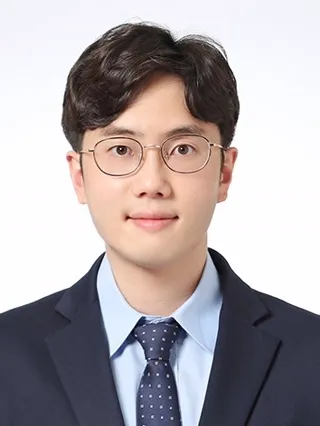
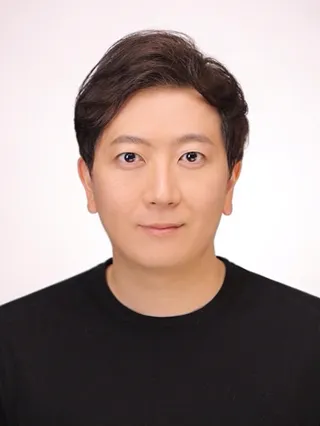
데이터사이언스학부 사진 완성 및 학과 링크 정정
data.pusan.ac.kr(데이터사이언스학부 공식 사이트) 확인 - 대학원(ds)에 없던
6명이 여기 있어 학부 11명 전원 사진 확보. 김민우는 통계학과 사이트 대신
학부 사이트 사진으로 교체.

- 교수 사진 54 -> 59/60 (미확보: 유철희, AX융합학부)
- AI컴퓨터공학부(인터랙티브컴퓨팅전공) 링크를 cse.pusan.ac.kr로 변경
  기존 inter.pusan.ac.kr는 디자인테크놀로지전공 사이트로, 서브도메인
  이름만 보고 추측해 잘못 연결했던 것을 정정
- 데이터사이언스학부 링크 추가 (교수진 헤딩 + 조직도 unit-d 노드)
- 캐시버스터 v=20260824-5

diff --git a/faculty-data.js b/faculty-data.js
@@ -1,1 +1,1 @@
-window.FACULTY_DATA=[{"college":"정보의생명공학대학","department":"정보컴퓨터공학부","major":"","rank":"교수","name":"이기준","specialty":"데이터베이스 및 공간정보공학","career":"•금성통신연구소(84.8-86.8)\n•부산대학교 정보컴퓨터공학부 교수(93.8~현재)\n•데이터베이스 및 공간 데이터 처리 시스템 고도화 및 융합 연구","aiCareer":"","image":"./assets/faculty/ef902ada.webp","isRepresentative":false},{"college":"정보의생명공학대학","department":"정보컴퓨터공학부","major":"","rank":"교수","name":"염근혁","specialty":"소프트웨어공학","career":"•금성반도체 연구원(85.1-88.2)\n•금성사 주임연구원(88.3-90.6)\n•삼성SDS 책임연구원(95.9.96.8)\n•부산대학교 정보컴퓨터공학부 교수(96.8~현재)\n•블록체인 트랜잭션 추적성 개선 및 머신러닝 기반 마이크로서비스 아키텍처 결합 관리 기술 전문가로 Journal of King Saud University(IF 6.1, Q1) 등 SCIE 저널 우수 성과 보유","aiCareer":"","image":"./assets/faculty/afa11a9e.webp","isRepresentative":false},{"college":"정보의생명공학대학","department":"정보컴퓨터공학부","major":"","rank":"교수","name":"이도훈","specialty":"Visual Computing","career":"•밀양대학교 컴퓨터공학과 교수(95.3-06.2)\n•부산대학교 정보컴퓨터공학부 교수(06.3~현재)\n•시각 추론(Visual Reasoning) 기반 저조도 이미지 개선 및 딥러닝 데이터 증강·이상 탐지 모델링 등 Visual Computing AI 전문가","aiCareer":"","image":"./assets/faculty/40045646.webp","isRepresentative":false},{"college":"정보의생명공학대학","department":"정보컴퓨터공학부","major":"","rank":"교수","name":"김정구","specialty":"통신이론, 부호 및 정보이론","career":"•밀양대학교 정보통신공학부 교수(95.3-06.2)\n•부산대학교 정보컴퓨터공학부 교수(06.3~현재)\n•통신이론 및 부호·정보이론 시스템 지능화 최적화 전문가","aiCareer":"","image":"./assets/faculty/e77e50aa.webp","isRepresentative":false},{"college":"정보의생명공학대학","department":"정보컴퓨터공학부","major":"","rank":"교수","name":"백윤주","specialty":"컴퓨터시스템","career":"•(주)핸디소프트(97.3-98.2)\n•NHN㈜ 연구소장(99.6-02.2)\n•한경대학교 컴퓨터공학과 교수(98.3-99.2)\n•숙명여자대학교 정보과학부 교수(99.3-01.2)\n•한국과학기술원 전산학과 초빙교수(02.3-03.8)\n•부산대학교 정보컴퓨터공학부 교수(03.10~현재)\n•온디바이스 AI 및 대형 언어 모델(LLM) 파인튜닝 전문가로 IEEE Access, Sensors 등 SCIE 저널 다수 게재 성과","aiCareer":"","image":"./assets/faculty/74e412af.webp","isRepresentative":false},{"college":"정보의생명공학대학","department":"정보컴퓨터공학부","major":"","rank":"교수","name":"우균","specialty":"프로그래밍언어 및 컴파일러","career":"•KAIST 인공지능연구센터(CAIR) 연구원(93.03~00.02)\n•부산대학교 과학영재교육원 AI창의융합반 지도교수(26.03~현재)\n•동아대학교 컴퓨터공학과 교수(00.3-04.2)\n•부산대학교 정보컴퓨터공학부 교수(04.3~현재)\n•Jupyter 활용 대화형 인공지능 교육 시스템 설계 전문가","aiCareer":"","image":"./assets/faculty/cb555f16.webp","isRepresentative":false},{"college":"정보의생명공학대학","department":"정보컴퓨터공학부","major":"","rank":"교수","name":"김종덕","specialty":"컴퓨터 네트워크와 통신","career":"•텔코웨어 차장(03.1-04.2)\n•부산대학교 정보컴퓨터공학부 교수(04.3~현재)\n•무선 센서 네트워크 데이터 통신 최적화 AI 전문가로 IEEE Sensors Journal(Q1), IEEE Access 등 최우수 SCIE 논문 게재 성과","aiCareer":"","image":"./assets/faculty/c0d0f2c5.webp","isRepresentative":false},{"college":"정보의생명공학대학","department":"정보컴퓨터공학부","major":"","rank":"교수","name":"채흥석","specialty":"소프트웨어공학","career":"•동양시스템즈 선임연구원(00.9~03.4)\n•소프트티엔큐 대표이사(14.9~21.9)\n•부산대학교 정보컴퓨터공학부 교수(04.3~현재)\n•AI 소프트웨어 공학 전문가로 심층신경망(DNN) 테스트 최적화 관련 Neural Computing and Applications 등 국제 저널 게재","aiCareer":"","image":"./assets/faculty/5d9b633e.webp","isRepresentative":false},{"college":"정보의생명공학대학","department":"정보컴퓨터공학부","major":"","rank":"교수","name":"탁성우","specialty":"컴퓨터네트워크","career":"•ETRI 연구원(97.1-99.12)\n•부산대학교 정보컴퓨터공학부 교수(04.3~현재)\n•지능형 통신 네트워크 프로토콜 및 컴퓨터 네트워크 시스템 알고리즘 연구 전문가","aiCareer":"","image":"./assets/faculty/13b33174.webp","isRepresentative":false},{"college":"정보의생명공학대학","department":"정보컴퓨터공학부","major":"","rank":"교수","name":"유영환","specialty":"네트워크 및 사이버물리시스템","career":"•University of Cincinnati Research Associate(04.5-06.12)\n•부산대학교 정보컴퓨터공학부 교수(07.3~현재)\n•하이브리드 딥러닝 기반 IoT 보안 전문가로 IEEE Internet of Things Journal(IF 8.9, 상위 10%) 최우수 저널 성과 보유","aiCareer":"","image":"./assets/faculty/3c1596e1.webp","isRepresentative":true},{"college":"정보의생명공학대학","department":"정보컴퓨터공학부","major":"","rank":"교수","name":"김호원","specialty":"정보보호 및 physical  AI","career":"•한국전자통신연구원 선임연구원(99.2-08.2)\n•부산대학교 정보컴퓨터공학부 교수(08.3~현재)\n•사물지능 정보보안 전문가로 딥 신경망(DNN) 기반 통신 침해 이상 탐지 관련 SCIE 저널 게재 참여","aiCareer":"","image":"./assets/faculty/5cf47b82.webp","isRepresentative":false},{"college":"정보의생명공학대학","department":"정보컴퓨터공학부","major":"","rank":"교수","name":"최윤호","specialty":"컴퓨터 및 네트워크 보안","career":"•삼성전자 책임연구원(10.3-12.2)\n•경기대학교 교수(12.3-14.8)\n•부산대학교 정보컴퓨터공학부 교수(14.9~현재)\n•생성형 AI(GAN/Diffusion) 합성 데이터 증강 전문가로 ACM SAC 최우수 국제학회 및 IEEE Access 등 프라이버시 AI 분야 SCIE 다수 성과","aiCareer":"","image":"./assets/faculty/0592f7f1.webp","isRepresentative":false},{"college":"정보의생명공학대학","department":"정보컴퓨터공학부","major":"","rank":"교수","name":"송길태","specialty":"머신러닝, 생성AI, 바이오인포매틱스","career":"•부산대학교 정보컴퓨터공학부 교수(16.9~현재)\n•머신러닝 및 바이오 AI 전문가로 Briefings in Bioinformatics(IF 7.7), Bioinformatics 등 바이오인포매틱스 분야 JCR 상위 10% 최상위 SCIE 저널 성과 보유","aiCareer":"","image":"./assets/faculty/38f416bc.webp","isRepresentative":false},{"college":"정보의생명공학대학","department":"정보컴퓨터공학부","major":"","rank":"부교수","name":"안성용","specialty":"운영체제 및 스토리지 시스템","career":"•삼성전자 책임연구원(12.9-17.8)\n•부산대학교 정보컴퓨터공학부 교수(17.9~현재)\n•지능형 스토리지 최적화 전문가로 차세대 ZNS SSD 환경 운영체제 구조 관련 연구 학술지 게재","aiCareer":"","image":"./assets/faculty/af8764af.webp","isRepresentative":false},{"college":"정보의생명공학대학","department":"정보컴퓨터공학부","major":"","rank":"부교수","name":"감진규","specialty":"컴퓨터비전, 의료영상처리, 머신러닝 ","career":"•삼성전자 선임연구원(03.1-07.3)\n•부산대학교 정보컴퓨터공학부 교수(17.9~현재)\n•뇌질환 의료 영상 AI 전문가로 NeuroImage(IF 4.5, 상위 10%), Scientific Reports(Q1) 등 딥러닝 조기 진단 분야 최상급 저널 성과","aiCareer":"","image":"./assets/faculty/5182f686.webp","isRepresentative":false},{"college":"정보의생명공학대학","department":"정보컴퓨터공학부","major":"","rank":"교수","name":"황원주","specialty":"사물인터넷(IoT) 차세대 이동통신","career":"•인제대학교 교수(02.9~19.12)\n•부산대학교 정보컴퓨터공학부 교수(20.1~현재)\n•6G 네트워크 및 분산 기계학습 전문가로 IEEE Communications Surveys & Tutorials(IF 46.7, 상위 10%), IEEE TVT 등 통신 AI 분야 세계 최고 수준의 압도적 성과 다수","aiCareer":"","image":"./assets/faculty/adb60e38.webp","isRepresentative":false},{"college":"정보의생명공학대학","department":"정보컴퓨터공학부","major":"","rank":"부교수","name":"권동현","specialty":"소프트웨어 보안, 임베디드 시스템 보안","career":"•한국전자통신연구원 연구원(19.3-20.2)\n•부산대학교 정보컴퓨터공학부 교수(20.3~현재)\n•임베디드 AI 보안 전문가로 IEEE T-ASE(Q1) 최상위 저널 및 ACSAC, DAC 등 최우수 정보보안 국제학회 탁월한 성과","aiCareer":"","image":"./assets/faculty/1c93a9a9.webp","isRepresentative":false},{"college":"정보의생명공학대학","department":"정보컴퓨터공학부","major":"","rank":"부교수","name":"이명호","specialty":"가상증강현실, 디지털휴먼, 디지털트윈,메타버스, HCI","career":"•부산대학교 정보컴퓨터공학부 교수(20.9~현재)\n•메타버스 AR/VR 지능 전문가로 IEEE Transactions on Visualization and Computer Graphics(IF 6.5, 상위 10%) 게재 및 ISMAR 우수국제학술대회 발표 성과","aiCareer":"","image":"./assets/faculty/d49ff39e.webp","isRepresentative":false},{"college":"정보의생명공학대학","department":"정보컴퓨터공학부","major":"","rank":"부교수","name":"박진선","specialty":"컴퓨터비전, 자율주행, 인공지능","career":"•부산대학교 정보컴퓨터공학부 교수(21.9~현재)\n•3차원 시각 지능 분야 전문가로 AAAI, ACM MM 등 AI 최우수 국제학회 다수 성과 및 IEEE RA-L 로봇 비전 게재\n•윤인구신진연구자상 수상","aiCareer":"","image":"./assets/faculty/91d7e62a.webp","isRepresentative":false},{"college":"정보의생명공학대학","department":"정보컴퓨터공학부","major":"","rank":"부교수","name":"김원석","specialty":"피지컬AI, 디지털트윈, AI최적화","career":"•주)플론베이 대표이사: 16.03-19.02\n•부산대학교 정보컴퓨터공학부 교수(22.3~현재)\n•클라우드/디지털 트윈 AI 전문가로 Energy(IF 9.4, 상위 10%), Renewable Energy(Q1) 등 에너지 최적화 분야 최우수 SCIE 성과 다수","aiCareer":"","image":"./assets/faculty/468d3cda.webp","isRepresentative":false},{"college":"정보의생명공학대학","department":"정보컴퓨터공학부","major":"","rank":"부교수","name":"김태운","specialty":"무선네트워크, 지능형IoT, 모빌리티","career":"•한국정보통신기술협회/TTA 연구원(10.3~13.4)\n•한림대학교 교수(18.9~22.8)\n•부산대학교 정보컴퓨터공학부 교수(22.9~현재)\n•모빌리티 지능형 IoT 전문가로 IEEE Access, Sensors 등 트랜스포머 기반 궤적 예측 및 강화학습 스케줄링 관련 다수 SCIE 저널 게재","aiCareer":"","image":"./assets/faculty/f9eaeb5b.webp","isRepresentative":false},{"college":"정보의생명공학대학","department":"정보컴퓨터공학부","major":"","rank":"조교수","name":"조준수","specialty":"데이터 마이닝, 추천시스템, 자연어 처리, 멀티모달 ","career":"•부산대학교 정보컴퓨터공학부 교수(23.9~현재)\n•자연어 처리 및 데이터 마이닝 전문가로 대형 언어 모델(LLM)의 자기 검증 및 RAG 기반 환각 완화 관련 우수 학술지 게재 성과","aiCareer":"","image":"./assets/faculty/90d3f4c1.webp","isRepresentative":false},{"college":"정보의생명공학대학","department":"정보컴퓨터공학부","major":"","rank":"조교수","name":"전상률","specialty":"컴퓨터비전, 기계학습","career":"•부산대학교 정보컴퓨터공학부 교수(23.9~현재)\n•비전 기계학습 전문가로 오픈 보캐뷸러리(Open-Vocabulary) 프레임워크 및 생성형 AI 기반 이미지 변환 기술 최적화로 IEEE Access 게재 성과","aiCareer":"","image":"./assets/faculty/2e704305.webp","isRepresentative":false},{"college":"정보의생명공학대학","department":"정보컴퓨터공학부","major":"","rank":"조교수","name":"손준영","specialty":"AX융합사이버보안","career":"• 국가보안기술연구소 연구원(09.08.18-12.12.31)\n• 한국원자력안전기술원 선임연구원(13.02.15-17.01.31)\n• 한국원자력연구원 선임연구원(17.02.01-23.10.05)\n•부산대학교 정보컴퓨터공학부 교수(24.3~현재)\n•사이버 융합 보안 전문가로 심층 강화학습 활용 자율주행(CAN) 이상 탐지 최적화 IEEE Access 게재 성과","aiCareer":"","image":"./assets/faculty/14b3eddc.webp","isRepresentative":false},{"college":"정보의생명공학대학","department":"정보컴퓨터공학부","major":"","rank":"조교수","name":"박영진","specialty":"컴퓨터그래픽스, 기하모델링, 3D알고리즘","career":"•부산대학교 정보컴퓨터공학부 교수(25.3~현재)\n•3D 그래픽스 전문가로 데이터 알고리즘을 응용한 포뮬러 레이싱 궤적 곡률 기반 기하 난이도 분석으로 Applied Sciences 게재 성과","aiCareer":"","image":"./assets/faculty/f0550dec.webp","isRepresentative":false},{"college":"정보의생명공학대학","department":"정보컴퓨터공학부","major":"","rank":"조교수","name":"최동희","specialty":"자연어처리, 데이터마이닝, 바이오 AI, 금융 AI, Food AI","career":"• Opinion8 CIO(14.10.21~16.04.26)\n• Konolabs 데이터 사이언티스트(17.01.01~19.04.05)\n• LYZE 리서치 디렉터(18.06.20~19.04.15)\n• Sony Research Internship Trainee(22.12.19~23.06.30)\n•부산대학교 정보컴퓨터공학부 교수(25.9~현재)\n•실무 데이터 바탕 자연어 처리, 바이오·금융·Food AI 상용화 선도","aiCareer":"","image":"./assets/faculty/23aa91e0.webp","isRepresentative":false},{"college":"정보의생명공학대학","department":"정보컴퓨터공학부","major":"","rank":"조교수","name":"권용인","specialty":"인공지능 시스템, 임베디드 시스템, 인공지능 반도체, 온디바이스 AI","career":"•삼성전자 책임 (15.3~19.7)\n•한국전자통신연구원 선임연구원 (19.7~26.2)\n•부산대학교 정보컴퓨터공학부 교수(26.3~현재)\n•인공지능 시스템 및 임베디드 장비에 특화된 지능형 반도체 아키텍처 최적화, 경량화된 온디바이스 AI 알고리즘 설계 연구 전문가","aiCareer":"전임","image":"./assets/faculty/b17513e7.webp","isRepresentative":false},{"college":"AI대학","department":"AI컴퓨터공학부 (인터랙티브컴퓨팅전공)","major":"","rank":"교수","name":"김철기","specialty":"인공지능","career":"•밀양대학교 컴퓨터공학부 교수(03.3~06.2)\n•부산대학교 디자인학과 디자인테크놀로지전공 교수(06.3~26.2)\n•부산대학교 정보컴퓨터공학부 교수(26.3~현재)\n•인간중심AI와 인터랙션전문가로서 Springer 및 Elsvier, KCI, SCI논문실적 다수","aiCareer":"전임","image":"./assets/faculty/3a3ade27.webp","isRepresentative":true},{"college":"AI대학","department":"AI컴퓨터공학부 (인터랙티브컴퓨팅전공)","major":"","rank":"교수","name":"김태완","specialty":"운영체제","career":"•부산대학교 디자인학과 디자인테크놀로지전공 교수(06.3~26.2)\n•(재)부산디자인진흥원 선임직 이사 역임 (2019~2021)\n•부산대학교 정보컴퓨터공학부 교수(26.3~현재)","aiCareer":"전임","image":"./assets/faculty/d7495eeb.webp","isRepresentative":false},{"college":"AI대학","department":"AI컴퓨터공학부 (인터랙티브컴퓨팅전공)","major":"","rank":"교수","name":"이화세","specialty":"인터랙션","career":"•밀양대학교 컴퓨터공학과 교수 (91.3~06.2)\n•부산대학교 디자인학과 디자인테크놀로지전공 교수(06.3~26.2)\n•부산대학교 정보컴퓨터공학부 교수(26.3~현재)\n•웹 디자인 및 웹 UX 연구","aiCareer":"전임","image":"./assets/faculty/d2f17d86.webp","isRepresentative":false},{"college":"AI대학","department":"산업공학부","major":"","rank":"교수","name":"박찬석","specialty":"응용통계","career":"Editorial boards of\nthe Journal of Probability and Statistics and \ntheInternationalJournalof\nQualityEngineeringandTechnology\n주저자논문70여건\n응용통계,Robustness,StatisticalSimulation,Bayesian,신뢰성,데이터분석분야\n특허: 2건","aiCareer":"전임","image":"./assets/faculty/f92fada9.webp","isRepresentative":false},{"college":"AI대학","department":"산업공학부","major":"","rank":"교수","name":"배혜림","specialty":"산업 AI","career":"주저자 논문 114여건\n기술이전21여건(항만,해양,제조,빅데이터,딥러닝,AI관련도메인)약3.9억","aiCareer":"전임","image":"./assets/faculty/7f26fe9a.webp","isRepresentative":false},{"college":"AI대학","department":"산업공학부","major":"","rank":"교수","name":"이규민","specialty":"수리최적화 및 계산최적화","career":"재난비상소개 Agent-Based Simulation - 연구재단 전략연구, 중견연구\n가상자산로보어드바이저–한국블록체인학회","aiCareer":"전임","image":"./assets/faculty/ae28b21f.webp","isRepresentative":false},{"college":"AI대학","department":"산업공학부","major":"","rank":"교수","name":"진상은","specialty":"인간-시스템 상호작용","career":"산업안전보건공단 산재예방 AI 혁신위 위원\n산업안전AIR&D4건진행중\n부산대학교산업인공지능연구소소장\n부산대학교 AX정보화혁신본부 부본부장\n논문9건,산학협력2건,정부R&D3건,기술이전:1건\nHuman-RobotCollaboration,HumanComputerInteraction,산업안전LMM(위험성평가등)","aiCareer":"전임","image":"./assets/faculty/c8ae8bb1.webp","isRepresentative":false},{"college":"AI대학","department":"산업공학부","major":"","rank":"교수","name":"홍순도","specialty":"생산/물류, 디지털트윈","career":"삼성디스플레이 스마트팩토리 2.5년 (2011.8~2014.2), \n하이닉스공장자동화3.3년(1996.8~1999.11)\n주저자논문11건\n디지털트윈,스마트팩토리,기계학습분야\n삼성디스플레이스마트공장디지털트윈산학협력3건,공동특허5건","aiCareer":"전임","image":"./assets/faculty/e1ee7415.webp","isRepresentative":false},{"college":"AI대학","department":"산업공학부","major":"","rank":"부교수","name":"김기훈","specialty":"산업 AI","career":"주저자 논문 12건, 특허 출원 5건 및 등록 2건, 산학협력 8건 등","aiCareer":"전임","image":"./assets/faculty/b3a96e35.webp","isRepresentative":false},{"college":"AI대학","department":"산업공학부","major":"","rank":"부교수","name":"한준희","specialty":"AI팩토리","career":"주저자 논문 5편\n제조AI,의사결정자동화분야","aiCareer":"전임","image":"./assets/faculty/141041ee.webp","isRepresentative":true},{"college":"AI대학","department":"산업공학부","major":"","rank":"조교수","name":"김도원","specialty":"확률모형, 확률기반 최적화","career":"메리츠화재 데이터사이언스 파트 근무, 선도연구센터 부센터장, AI 기반 최적화 논문 게재\n주저자논문9건\n방법론:최적화,stochasticprocess,확률\n도메인:에너지-기후,환경,해양항만","aiCareer":"전임","image":"./assets/faculty/badf38be.webp","isRepresentative":false},{"college":"AI대학","department":"산업공학부","major":"","rank":"조교수","name":"신혜림","specialty":"최적화","career":"AI 컴퓨팅 최적화 업무, 삼성전자 SAIT System Research Center\nAI프로그래밍및강화학습개론수업강의,부산대학교\n주저자논문2건\n최적화,M&S분야","aiCareer":"전임","image":"./assets/faculty/c61d1f7c.webp","isRepresentative":false},{"college":"AI대학","department":"산업공학부","major":"","rank":"조교수","name":"정재희","specialty":"최적화이론, 시스템최적화","career":"2020.01~2024.08 LGD AI/Big Data 최적화팀 책임\n주저자논문5건\n에너지시스템,SNS분야\n산학협력:1건\nLG에너지솔루션SCP시스템개발","aiCareer":"전임","image":"./assets/faculty/9e957d92.webp","isRepresentative":false},{"college":"AI대학","department":"데이터사이언스학부","major":"","rank":"교수","name":"류광열","specialty":"산업공학(생산공학)","career":"Physical AI, 스마트제조, HRC, 제조데이터분석","aiCareer":"전임","image":"./assets/faculty/405df69d.webp","isRepresentative":false},{"college":"AI대학","department":"데이터사이언스학부","major":"","rank":"교수","name":"지봉준","specialty":"산업공학","career":"삼성리서치 Staff Engineer, AI+X(제조,토목,환경,교육) 융합연구수행","aiCareer":"전임","image":"./assets/faculty/87878bb1.webp","isRepresentative":false},{"college":"AI대학","department":"데이터사이언스학부","major":"","rank":"교수","name":"강상우","specialty":"전기전자공학(역문제)","career":"국방과학연구소 인공지능자율기술센터 신임연구원, 국방AI, 과학적 데이터 AI 연구 수행","aiCareer":"전임","image":"./assets/faculty/5429c094.webp","isRepresentative":false},{"college":"AI대학","department":"데이터사이언스학부","major":"","rank":"교수","name":"권준호","specialty":"컴퓨터공학","career":"차세대융합기술연구원 선임연구원, BigComp 2026 general chair, KDD 2026 publication chair ","aiCareer":"전임","image":"./assets/faculty/45ce2bd2.webp","isRepresentative":false},{"college":"AI대학","department":"데이터사이언스학부","major":"","rank":"교수","name":"황윤태","specialty":"산업공학","career":"박사후연구원(University of Oxford), ICAIF'25 RFTS Worksohop Chair","aiCareer":"전임","image":"./assets/faculty/17efda2a.webp","isRepresentative":false},{"college":"AI대학","department":"데이터사이언스학부","major":"","rank":"부교수","name":"권선영","specialty":"전기정보공학","career":"네이버 AI연구원","aiCareer":"전임","image":"","isRepresentative":true},{"college":"AI대학","department":"데이터사이언스학부","major":"","rank":"부교수","name":"김민우","specialty":"전기컴퓨터공학","career":"삼성메디슨 연구원","aiCareer":"전임","image":"./assets/faculty/ea5c512f.webp","isRepresentative":false},{"college":"AI대학","department":"데이터사이언스학부","major":"","rank":"조교수","name":"박형기","specialty":"응용수학","career":"> 2026년도 대한수학회 신진수학자상 수상 (수리 AI 응용 논문)\n>한국산업응용수학회국제교류위원\n>2031년세계산업응용수학회운영위원","aiCareer":"전임","image":"","isRepresentative":false},{"college":"AI대학","department":"데이터사이언스학부","major":"","rank":"부교수","name":"백광열","specialty":"뇌과학/디지털 헬스","career":"보건의료분야 데이터 심의 전문위원 (2021.9~현재)","aiCareer":"전임","image":"","isRepresentative":false},{"college":"AI대학","department":"데이터사이언스학부","major":"","rank":"부교수","name":"이환희","specialty":"의생명통계","career":"한국연구재단-기후부 연관 과제 수행, 보건의료연구자원정보센터 데이터 공개활용위원회 위원","aiCareer":"전임","image":"","isRepresentative":false},{"college":"AI대학","department":"데이터사이언스학부","major":"","rank":"조교수","name":"유지현","specialty":"유전자교정, 바이오신약","career":"AI 활용 국가과제수행중(공동)-\nAI기반나노바디표지바이러스유사입자를이용한질환맞춤형유전자교정플랫폼개발","aiCareer":"전임","image":"","isRepresentative":false},{"college":"AI대학","department":"통계학과","major":"","rank":"교수","name":"최용석","specialty":"다변량통계학, 텍스트마이닝, 고차원자료시각화기법","career":"AI 연구 및 모델개발 : NLP 연구, 머신(딥)러닝","aiCareer":"전임","image":"./assets/faculty/5cbbe1a3.webp","isRepresentative":false},{"college":"AI대학","department":"통계학과","major":"","rank":"교수","name":"조영석","specialty":"데이터 생성","career":"데이터마이닝, 텍스트마이닝","aiCareer":"전임","image":"./assets/faculty/f5a801d3.webp","isRepresentative":false},{"college":"AI대학","department":"통계학과","major":"","rank":"교수","name":"선호근","specialty":"생물통계학, 생물정보학","career":"-　","aiCareer":"전임","image":"./assets/faculty/dc3da55f.webp","isRepresentative":false},{"college":"AI대학","department":"통계학과","major":"","rank":"부교수","name":"양호진","specialty":"통계적 학습, 추론, 예측","career":"- 함수 데이터 학습 및 추론 모형 개발 연구\n-의료데이터분석및예측모델연구\n-비유클리드데이터학습및추론모형개발연구","aiCareer":"전임","image":"./assets/faculty/d9c4396b.webp","isRepresentative":false},{"college":"AI대학","department":"통계학과","major":"","rank":"부교수","name":"박소영","specialty":"통계학 기반 포렌식 데이터 과학 및 컴퓨터 비전 기반 딥러닝 알고리즘 개발","career":"- 전이학습 기반 XAI 알고리즘을 활용한 필적 및 문서 이미지 잠재 벡터 추출 기술을 연구하여 Scientific Reports, Statistical Analysis and Data Mining, Science & Justice 등 유수 저널에 최근 5년간 8편의 SCI 논문을 게재함.\n-족적,필적,음성등비정형포렌식데이터의자동정렬및패턴인식을위한딥러닝·랜덤포레스트 기반 확률예측모델을 개발하였으며,이를 바탕으로 실제 법정내 AI활용증거감정에 참여함.","aiCareer":"전임","image":"./assets/faculty/afd13063.webp","isRepresentative":false},{"college":"AI대학","department":"통계학과","major":"","rank":"부교수","name":"이동혁","specialty":"계산통계, 생산성분석, 유전체분석","career":"- 미국 국립 암 연구소 (National Cancer Institute) 생물통계학 연구원","aiCareer":"전임","image":"./assets/faculty/8ef7ff57.webp","isRepresentative":true},{"college":"AI대학","department":"통계학과","major":"","rank":"조교수","name":"이종민","specialty":"Multivariate statistics, AI-relevant non-Euclidean learning","career":"- 고등과학원 AI기초과학센터 박사후연구원","aiCareer":"전임","image":"./assets/faculty/45435150.webp","isRepresentative":false},{"college":"AI대학","department":"통계학과","major":"","rank":"조교수","name":"김민우","specialty":"베이지안 통계, 공간 통계, 자율주행 모델 개발","career":"- 혁신거점 AI 데이터 융합과제 참여,\n-운전변수기반NOx발생데이터분석과제참여,\n-KAUSTSpatio-TemporalStatisticsandDataScienceLab박사후과정","aiCareer":"전임","image":"./assets/faculty/2d005386.webp","isRepresentative":false},{"college":"AI대학","department":"AX융합학부","major":"","rank":"조교수","name":"유철희","specialty":"도시 원격탐사, 인공지능 기반 도시환경 모델링","career":"관련 논문(Comparison between convolutional neural networks and random forest for local climate zone lassification in mega urban areas using Landsat images 외 약 45편)","aiCareer":"전임","image":"","isRepresentative":false}];
+window.FACULTY_DATA=[{"college":"정보의생명공학대학","department":"정보컴퓨터공학부","major":"","rank":"교수","name":"이기준","specialty":"데이터베이스 및 공간정보공학","career":"•금성통신연구소(84.8-86.8)\n•부산대학교 정보컴퓨터공학부 교수(93.8~현재)\n•데이터베이스 및 공간 데이터 처리 시스템 고도화 및 융합 연구","aiCareer":"","image":"./assets/faculty/ef902ada.webp","isRepresentative":false},{"college":"정보의생명공학대학","department":"정보컴퓨터공학부","major":"","rank":"교수","name":"염근혁","specialty":"소프트웨어공학","career":"•금성반도체 연구원(85.1-88.2)\n•금성사 주임연구원(88.3-90.6)\n•삼성SDS 책임연구원(95.9.96.8)\n•부산대학교 정보컴퓨터공학부 교수(96.8~현재)\n•블록체인 트랜잭션 추적성 개선 및 머신러닝 기반 마이크로서비스 아키텍처 결합 관리 기술 전문가로 Journal of King Saud University(IF 6.1, Q1) 등 SCIE 저널 우수 성과 보유","aiCareer":"","image":"./assets/faculty/afa11a9e.webp","isRepresentative":false},{"college":"정보의생명공학대학","department":"정보컴퓨터공학부","major":"","rank":"교수","name":"이도훈","specialty":"Visual Computing","career":"•밀양대학교 컴퓨터공학과 교수(95.3-06.2)\n•부산대학교 정보컴퓨터공학부 교수(06.3~현재)\n•시각 추론(Visual Reasoning) 기반 저조도 이미지 개선 및 딥러닝 데이터 증강·이상 탐지 모델링 등 Visual Computing AI 전문가","aiCareer":"","image":"./assets/faculty/40045646.webp","isRepresentative":false},{"college":"정보의생명공학대학","department":"정보컴퓨터공학부","major":"","rank":"교수","name":"김정구","specialty":"통신이론, 부호 및 정보이론","career":"•밀양대학교 정보통신공학부 교수(95.3-06.2)\n•부산대학교 정보컴퓨터공학부 교수(06.3~현재)\n•통신이론 및 부호·정보이론 시스템 지능화 최적화 전문가","aiCareer":"","image":"./assets/faculty/e77e50aa.webp","isRepresentative":false},{"college":"정보의생명공학대학","department":"정보컴퓨터공학부","major":"","rank":"교수","name":"백윤주","specialty":"컴퓨터시스템","career":"•(주)핸디소프트(97.3-98.2)\n•NHN㈜ 연구소장(99.6-02.2)\n•한경대학교 컴퓨터공학과 교수(98.3-99.2)\n•숙명여자대학교 정보과학부 교수(99.3-01.2)\n•한국과학기술원 전산학과 초빙교수(02.3-03.8)\n•부산대학교 정보컴퓨터공학부 교수(03.10~현재)\n•온디바이스 AI 및 대형 언어 모델(LLM) 파인튜닝 전문가로 IEEE Access, Sensors 등 SCIE 저널 다수 게재 성과","aiCareer":"","image":"./assets/faculty/74e412af.webp","isRepresentative":false},{"college":"정보의생명공학대학","department":"정보컴퓨터공학부","major":"","rank":"교수","name":"우균","specialty":"프로그래밍언어 및 컴파일러","career":"•KAIST 인공지능연구센터(CAIR) 연구원(93.03~00.02)\n•부산대학교 과학영재교육원 AI창의융합반 지도교수(26.03~현재)\n•동아대학교 컴퓨터공학과 교수(00.3-04.2)\n•부산대학교 정보컴퓨터공학부 교수(04.3~현재)\n•Jupyter 활용 대화형 인공지능 교육 시스템 설계 전문가","aiCareer":"","image":"./assets/faculty/cb555f16.webp","isRepresentative":false},{"college":"정보의생명공학대학","department":"정보컴퓨터공학부","major":"","rank":"교수","name":"김종덕","specialty":"컴퓨터 네트워크와 통신","career":"•텔코웨어 차장(03.1-04.2)\n•부산대학교 정보컴퓨터공학부 교수(04.3~현재)\n•무선 센서 네트워크 데이터 통신 최적화 AI 전문가로 IEEE Sensors Journal(Q1), IEEE Access 등 최우수 SCIE 논문 게재 성과","aiCareer":"","image":"./assets/faculty/c0d0f2c5.webp","isRepresentative":false},{"college":"정보의생명공학대학","department":"정보컴퓨터공학부","major":"","rank":"교수","name":"채흥석","specialty":"소프트웨어공학","career":"•동양시스템즈 선임연구원(00.9~03.4)\n•소프트티엔큐 대표이사(14.9~21.9)\n•부산대학교 정보컴퓨터공학부 교수(04.3~현재)\n•AI 소프트웨어 공학 전문가로 심층신경망(DNN) 테스트 최적화 관련 Neural Computing and Applications 등 국제 저널 게재","aiCareer":"","image":"./assets/faculty/5d9b633e.webp","isRepresentative":false},{"college":"정보의생명공학대학","department":"정보컴퓨터공학부","major":"","rank":"교수","name":"탁성우","specialty":"컴퓨터네트워크","career":"•ETRI 연구원(97.1-99.12)\n•부산대학교 정보컴퓨터공학부 교수(04.3~현재)\n•지능형 통신 네트워크 프로토콜 및 컴퓨터 네트워크 시스템 알고리즘 연구 전문가","aiCareer":"","image":"./assets/faculty/13b33174.webp","isRepresentative":false},{"college":"정보의생명공학대학","department":"정보컴퓨터공학부","major":"","rank":"교수","name":"유영환","specialty":"네트워크 및 사이버물리시스템","career":"•University of Cincinnati Research Associate(04.5-06.12)\n•부산대학교 정보컴퓨터공학부 교수(07.3~현재)\n•하이브리드 딥러닝 기반 IoT 보안 전문가로 IEEE Internet of Things Journal(IF 8.9, 상위 10%) 최우수 저널 성과 보유","aiCareer":"","image":"./assets/faculty/3c1596e1.webp","isRepresentative":true},{"college":"정보의생명공학대학","department":"정보컴퓨터공학부","major":"","rank":"교수","name":"김호원","specialty":"정보보호 및 physical  AI","career":"•한국전자통신연구원 선임연구원(99.2-08.2)\n•부산대학교 정보컴퓨터공학부 교수(08.3~현재)\n•사물지능 정보보안 전문가로 딥 신경망(DNN) 기반 통신 침해 이상 탐지 관련 SCIE 저널 게재 참여","aiCareer":"","image":"./assets/faculty/5cf47b82.webp","isRepresentative":false},{"college":"정보의생명공학대학","department":"정보컴퓨터공학부","major":"","rank":"교수","name":"최윤호","specialty":"컴퓨터 및 네트워크 보안","career":"•삼성전자 책임연구원(10.3-12.2)\n•경기대학교 교수(12.3-14.8)\n•부산대학교 정보컴퓨터공학부 교수(14.9~현재)\n•생성형 AI(GAN/Diffusion) 합성 데이터 증강 전문가로 ACM SAC 최우수 국제학회 및 IEEE Access 등 프라이버시 AI 분야 SCIE 다수 성과","aiCareer":"","image":"./assets/faculty/0592f7f1.webp","isRepresentative":false},{"college":"정보의생명공학대학","department":"정보컴퓨터공학부","major":"","rank":"교수","name":"송길태","specialty":"머신러닝, 생성AI, 바이오인포매틱스","career":"•부산대학교 정보컴퓨터공학부 교수(16.9~현재)\n•머신러닝 및 바이오 AI 전문가로 Briefings in Bioinformatics(IF 7.7), Bioinformatics 등 바이오인포매틱스 분야 JCR 상위 10% 최상위 SCIE 저널 성과 보유","aiCareer":"","image":"./assets/faculty/38f416bc.webp","isRepresentative":false},{"college":"정보의생명공학대학","department":"정보컴퓨터공학부","major":"","rank":"부교수","name":"안성용","specialty":"운영체제 및 스토리지 시스템","career":"•삼성전자 책임연구원(12.9-17.8)\n•부산대학교 정보컴퓨터공학부 교수(17.9~현재)\n•지능형 스토리지 최적화 전문가로 차세대 ZNS SSD 환경 운영체제 구조 관련 연구 학술지 게재","aiCareer":"","image":"./assets/faculty/af8764af.webp","isRepresentative":false},{"college":"정보의생명공학대학","department":"정보컴퓨터공학부","major":"","rank":"부교수","name":"감진규","specialty":"컴퓨터비전, 의료영상처리, 머신러닝 ","career":"•삼성전자 선임연구원(03.1-07.3)\n•부산대학교 정보컴퓨터공학부 교수(17.9~현재)\n•뇌질환 의료 영상 AI 전문가로 NeuroImage(IF 4.5, 상위 10%), Scientific Reports(Q1) 등 딥러닝 조기 진단 분야 최상급 저널 성과","aiCareer":"","image":"./assets/faculty/5182f686.webp","isRepresentative":false},{"college":"정보의생명공학대학","department":"정보컴퓨터공학부","major":"","rank":"교수","name":"황원주","specialty":"사물인터넷(IoT) 차세대 이동통신","career":"•인제대학교 교수(02.9~19.12)\n•부산대학교 정보컴퓨터공학부 교수(20.1~현재)\n•6G 네트워크 및 분산 기계학습 전문가로 IEEE Communications Surveys & Tutorials(IF 46.7, 상위 10%), IEEE TVT 등 통신 AI 분야 세계 최고 수준의 압도적 성과 다수","aiCareer":"","image":"./assets/faculty/adb60e38.webp","isRepresentative":false},{"college":"정보의생명공학대학","department":"정보컴퓨터공학부","major":"","rank":"부교수","name":"권동현","specialty":"소프트웨어 보안, 임베디드 시스템 보안","career":"•한국전자통신연구원 연구원(19.3-20.2)\n•부산대학교 정보컴퓨터공학부 교수(20.3~현재)\n•임베디드 AI 보안 전문가로 IEEE T-ASE(Q1) 최상위 저널 및 ACSAC, DAC 등 최우수 정보보안 국제학회 탁월한 성과","aiCareer":"","image":"./assets/faculty/1c93a9a9.webp","isRepresentative":false},{"college":"정보의생명공학대학","department":"정보컴퓨터공학부","major":"","rank":"부교수","name":"이명호","specialty":"가상증강현실, 디지털휴먼, 디지털트윈,메타버스, HCI","career":"•부산대학교 정보컴퓨터공학부 교수(20.9~현재)\n•메타버스 AR/VR 지능 전문가로 IEEE Transactions on Visualization and Computer Graphics(IF 6.5, 상위 10%) 게재 및 ISMAR 우수국제학술대회 발표 성과","aiCareer":"","image":"./assets/faculty/d49ff39e.webp","isRepresentative":false},{"college":"정보의생명공학대학","department":"정보컴퓨터공학부","major":"","rank":"부교수","name":"박진선","specialty":"컴퓨터비전, 자율주행, 인공지능","career":"•부산대학교 정보컴퓨터공학부 교수(21.9~현재)\n•3차원 시각 지능 분야 전문가로 AAAI, ACM MM 등 AI 최우수 국제학회 다수 성과 및 IEEE RA-L 로봇 비전 게재\n•윤인구신진연구자상 수상","aiCareer":"","image":"./assets/faculty/91d7e62a.webp","isRepresentative":false},{"college":"정보의생명공학대학","department":"정보컴퓨터공학부","major":"","rank":"부교수","name":"김원석","specialty":"피지컬AI, 디지털트윈, AI최적화","career":"•주)플론베이 대표이사: 16.03-19.02\n•부산대학교 정보컴퓨터공학부 교수(22.3~현재)\n•클라우드/디지털 트윈 AI 전문가로 Energy(IF 9.4, 상위 10%), Renewable Energy(Q1) 등 에너지 최적화 분야 최우수 SCIE 성과 다수","aiCareer":"","image":"./assets/faculty/468d3cda.webp","isRepresentative":false},{"college":"정보의생명공학대학","department":"정보컴퓨터공학부","major":"","rank":"부교수","name":"김태운","specialty":"무선네트워크, 지능형IoT, 모빌리티","career":"•한국정보통신기술협회/TTA 연구원(10.3~13.4)\n•한림대학교 교수(18.9~22.8)\n•부산대학교 정보컴퓨터공학부 교수(22.9~현재)\n•모빌리티 지능형 IoT 전문가로 IEEE Access, Sensors 등 트랜스포머 기반 궤적 예측 및 강화학습 스케줄링 관련 다수 SCIE 저널 게재","aiCareer":"","image":"./assets/faculty/f9eaeb5b.webp","isRepresentative":false},{"college":"정보의생명공학대학","department":"정보컴퓨터공학부","major":"","rank":"조교수","name":"조준수","specialty":"데이터 마이닝, 추천시스템, 자연어 처리, 멀티모달 ","career":"•부산대학교 정보컴퓨터공학부 교수(23.9~현재)\n•자연어 처리 및 데이터 마이닝 전문가로 대형 언어 모델(LLM)의 자기 검증 및 RAG 기반 환각 완화 관련 우수 학술지 게재 성과","aiCareer":"","image":"./assets/faculty/90d3f4c1.webp","isRepresentative":false},{"college":"정보의생명공학대학","department":"정보컴퓨터공학부","major":"","rank":"조교수","name":"전상률","specialty":"컴퓨터비전, 기계학습","career":"•부산대학교 정보컴퓨터공학부 교수(23.9~현재)\n•비전 기계학습 전문가로 오픈 보캐뷸러리(Open-Vocabulary) 프레임워크 및 생성형 AI 기반 이미지 변환 기술 최적화로 IEEE Access 게재 성과","aiCareer":"","image":"./assets/faculty/2e704305.webp","isRepresentative":false},{"college":"정보의생명공학대학","department":"정보컴퓨터공학부","major":"","rank":"조교수","name":"손준영","specialty":"AX융합사이버보안","career":"• 국가보안기술연구소 연구원(09.08.18-12.12.31)\n• 한국원자력안전기술원 선임연구원(13.02.15-17.01.31)\n• 한국원자력연구원 선임연구원(17.02.01-23.10.05)\n•부산대학교 정보컴퓨터공학부 교수(24.3~현재)\n•사이버 융합 보안 전문가로 심층 강화학습 활용 자율주행(CAN) 이상 탐지 최적화 IEEE Access 게재 성과","aiCareer":"","image":"./assets/faculty/14b3eddc.webp","isRepresentative":false},{"college":"정보의생명공학대학","department":"정보컴퓨터공학부","major":"","rank":"조교수","name":"박영진","specialty":"컴퓨터그래픽스, 기하모델링, 3D알고리즘","career":"•부산대학교 정보컴퓨터공학부 교수(25.3~현재)\n•3D 그래픽스 전문가로 데이터 알고리즘을 응용한 포뮬러 레이싱 궤적 곡률 기반 기하 난이도 분석으로 Applied Sciences 게재 성과","aiCareer":"","image":"./assets/faculty/f0550dec.webp","isRepresentative":false},{"college":"정보의생명공학대학","department":"정보컴퓨터공학부","major":"","rank":"조교수","name":"최동희","specialty":"자연어처리, 데이터마이닝, 바이오 AI, 금융 AI, Food AI","career":"• Opinion8 CIO(14.10.21~16.04.26)\n• Konolabs 데이터 사이언티스트(17.01.01~19.04.05)\n• LYZE 리서치 디렉터(18.06.20~19.04.15)\n• Sony Research Internship Trainee(22.12.19~23.06.30)\n•부산대학교 정보컴퓨터공학부 교수(25.9~현재)\n•실무 데이터 바탕 자연어 처리, 바이오·금융·Food AI 상용화 선도","aiCareer":"","image":"./assets/faculty/23aa91e0.webp","isRepresentative":false},{"college":"정보의생명공학대학","department":"정보컴퓨터공학부","major":"","rank":"조교수","name":"권용인","specialty":"인공지능 시스템, 임베디드 시스템, 인공지능 반도체, 온디바이스 AI","career":"•삼성전자 책임 (15.3~19.7)\n•한국전자통신연구원 선임연구원 (19.7~26.2)\n•부산대학교 정보컴퓨터공학부 교수(26.3~현재)\n•인공지능 시스템 및 임베디드 장비에 특화된 지능형 반도체 아키텍처 최적화, 경량화된 온디바이스 AI 알고리즘 설계 연구 전문가","aiCareer":"전임","image":"./assets/faculty/b17513e7.webp","isRepresentative":false},{"college":"AI대학","department":"AI컴퓨터공학부 (인터랙티브컴퓨팅전공)","major":"","rank":"교수","name":"김철기","specialty":"인공지능","career":"•밀양대학교 컴퓨터공학부 교수(03.3~06.2)\n•부산대학교 디자인학과 디자인테크놀로지전공 교수(06.3~26.2)\n•부산대학교 정보컴퓨터공학부 교수(26.3~현재)\n•인간중심AI와 인터랙션전문가로서 Springer 및 Elsvier, KCI, SCI논문실적 다수","aiCareer":"전임","image":"./assets/faculty/3a3ade27.webp","isRepresentative":true},{"college":"AI대학","department":"AI컴퓨터공학부 (인터랙티브컴퓨팅전공)","major":"","rank":"교수","name":"김태완","specialty":"운영체제","career":"•부산대학교 디자인학과 디자인테크놀로지전공 교수(06.3~26.2)\n•(재)부산디자인진흥원 선임직 이사 역임 (2019~2021)\n•부산대학교 정보컴퓨터공학부 교수(26.3~현재)","aiCareer":"전임","image":"./assets/faculty/d7495eeb.webp","isRepresentative":false},{"college":"AI대학","department":"AI컴퓨터공학부 (인터랙티브컴퓨팅전공)","major":"","rank":"교수","name":"이화세","specialty":"인터랙션","career":"•밀양대학교 컴퓨터공학과 교수 (91.3~06.2)\n•부산대학교 디자인학과 디자인테크놀로지전공 교수(06.3~26.2)\n•부산대학교 정보컴퓨터공학부 교수(26.3~현재)\n•웹 디자인 및 웹 UX 연구","aiCareer":"전임","image":"./assets/faculty/d2f17d86.webp","isRepresentative":false},{"college":"AI대학","department":"산업공학부","major":"","rank":"교수","name":"박찬석","specialty":"응용통계","career":"Editorial boards of\nthe Journal of Probability and Statistics and \ntheInternationalJournalof\nQualityEngineeringandTechnology\n주저자논문70여건\n응용통계,Robustness,StatisticalSimulation,Bayesian,신뢰성,데이터분석분야\n특허: 2건","aiCareer":"전임","image":"./assets/faculty/f92fada9.webp","isRepresentative":false},{"college":"AI대학","department":"산업공학부","major":"","rank":"교수","name":"배혜림","specialty":"산업 AI","career":"주저자 논문 114여건\n기술이전21여건(항만,해양,제조,빅데이터,딥러닝,AI관련도메인)약3.9억","aiCareer":"전임","image":"./assets/faculty/7f26fe9a.webp","isRepresentative":false},{"college":"AI대학","department":"산업공학부","major":"","rank":"교수","name":"이규민","specialty":"수리최적화 및 계산최적화","career":"재난비상소개 Agent-Based Simulation - 연구재단 전략연구, 중견연구\n가상자산로보어드바이저–한국블록체인학회","aiCareer":"전임","image":"./assets/faculty/ae28b21f.webp","isRepresentative":false},{"college":"AI대학","department":"산업공학부","major":"","rank":"교수","name":"진상은","specialty":"인간-시스템 상호작용","career":"산업안전보건공단 산재예방 AI 혁신위 위원\n산업안전AIR&D4건진행중\n부산대학교산업인공지능연구소소장\n부산대학교 AX정보화혁신본부 부본부장\n논문9건,산학협력2건,정부R&D3건,기술이전:1건\nHuman-RobotCollaboration,HumanComputerInteraction,산업안전LMM(위험성평가등)","aiCareer":"전임","image":"./assets/faculty/c8ae8bb1.webp","isRepresentative":false},{"college":"AI대학","department":"산업공학부","major":"","rank":"교수","name":"홍순도","specialty":"생산/물류, 디지털트윈","career":"삼성디스플레이 스마트팩토리 2.5년 (2011.8~2014.2), \n하이닉스공장자동화3.3년(1996.8~1999.11)\n주저자논문11건\n디지털트윈,스마트팩토리,기계학습분야\n삼성디스플레이스마트공장디지털트윈산학협력3건,공동특허5건","aiCareer":"전임","image":"./assets/faculty/e1ee7415.webp","isRepresentative":false},{"college":"AI대학","department":"산업공학부","major":"","rank":"부교수","name":"김기훈","specialty":"산업 AI","career":"주저자 논문 12건, 특허 출원 5건 및 등록 2건, 산학협력 8건 등","aiCareer":"전임","image":"./assets/faculty/b3a96e35.webp","isRepresentative":false},{"college":"AI대학","department":"산업공학부","major":"","rank":"부교수","name":"한준희","specialty":"AI팩토리","career":"주저자 논문 5편\n제조AI,의사결정자동화분야","aiCareer":"전임","image":"./assets/faculty/141041ee.webp","isRepresentative":true},{"college":"AI대학","department":"산업공학부","major":"","rank":"조교수","name":"김도원","specialty":"확률모형, 확률기반 최적화","career":"메리츠화재 데이터사이언스 파트 근무, 선도연구센터 부센터장, AI 기반 최적화 논문 게재\n주저자논문9건\n방법론:최적화,stochasticprocess,확률\n도메인:에너지-기후,환경,해양항만","aiCareer":"전임","image":"./assets/faculty/badf38be.webp","isRepresentative":false},{"college":"AI대학","department":"산업공학부","major":"","rank":"조교수","name":"신혜림","specialty":"최적화","career":"AI 컴퓨팅 최적화 업무, 삼성전자 SAIT System Research Center\nAI프로그래밍및강화학습개론수업강의,부산대학교\n주저자논문2건\n최적화,M&S분야","aiCareer":"전임","image":"./assets/faculty/c61d1f7c.webp","isRepresentative":false},{"college":"AI대학","department":"산업공학부","major":"","rank":"조교수","name":"정재희","specialty":"최적화이론, 시스템최적화","career":"2020.01~2024.08 LGD AI/Big Data 최적화팀 책임\n주저자논문5건\n에너지시스템,SNS분야\n산학협력:1건\nLG에너지솔루션SCP시스템개발","aiCareer":"전임","image":"./assets/faculty/9e957d92.webp","isRepresentative":false},{"college":"AI대학","department":"데이터사이언스학부","major":"","rank":"교수","name":"류광열","specialty":"산업공학(생산공학)","career":"Physical AI, 스마트제조, HRC, 제조데이터분석","aiCareer":"전임","image":"./assets/faculty/405df69d.webp","isRepresentative":false},{"college":"AI대학","department":"데이터사이언스학부","major":"","rank":"교수","name":"지봉준","specialty":"산업공학","career":"삼성리서치 Staff Engineer, AI+X(제조,토목,환경,교육) 융합연구수행","aiCareer":"전임","image":"./assets/faculty/87878bb1.webp","isRepresentative":false},{"college":"AI대학","department":"데이터사이언스학부","major":"","rank":"교수","name":"강상우","specialty":"전기전자공학(역문제)","career":"국방과학연구소 인공지능자율기술센터 신임연구원, 국방AI, 과학적 데이터 AI 연구 수행","aiCareer":"전임","image":"./assets/faculty/5429c094.webp","isRepresentative":false},{"college":"AI대학","department":"데이터사이언스학부","major":"","rank":"교수","name":"권준호","specialty":"컴퓨터공학","career":"차세대융합기술연구원 선임연구원, BigComp 2026 general chair, KDD 2026 publication chair ","aiCareer":"전임","image":"./assets/faculty/45ce2bd2.webp","isRepresentative":false},{"college":"AI대학","department":"데이터사이언스학부","major":"","rank":"교수","name":"황윤태","specialty":"산업공학","career":"박사후연구원(University of Oxford), ICAIF'25 RFTS Worksohop Chair","aiCareer":"전임","image":"./assets/faculty/17efda2a.webp","isRepresentative":false},{"college":"AI대학","department":"데이터사이언스학부","major":"","rank":"부교수","name":"권선영","specialty":"전기정보공학","career":"네이버 AI연구원","aiCareer":"전임","image":"./assets/faculty/7384afcc.webp","isRepresentative":true},{"college":"AI대학","department":"데이터사이언스학부","major":"","rank":"부교수","name":"김민우","specialty":"전기컴퓨터공학","career":"삼성메디슨 연구원","aiCareer":"전임","image":"./assets/faculty/ea5c512f.webp","isRepresentative":false},{"college":"AI대학","department":"데이터사이언스학부","major":"","rank":"조교수","name":"박형기","specialty":"응용수학","career":"> 2026년도 대한수학회 신진수학자상 수상 (수리 AI 응용 논문)\n>한국산업응용수학회국제교류위원\n>2031년세계산업응용수학회운영위원","aiCareer":"전임","image":"./assets/faculty/ccf8ea96.webp","isRepresentative":false},{"college":"AI대학","department":"데이터사이언스학부","major":"","rank":"부교수","name":"백광열","specialty":"뇌과학/디지털 헬스","career":"보건의료분야 데이터 심의 전문위원 (2021.9~현재)","aiCareer":"전임","image":"./assets/faculty/4dc8592d.webp","isRepresentative":false},{"college":"AI대학","department":"데이터사이언스학부","major":"","rank":"부교수","name":"이환희","specialty":"의생명통계","career":"한국연구재단-기후부 연관 과제 수행, 보건의료연구자원정보센터 데이터 공개활용위원회 위원","aiCareer":"전임","image":"./assets/faculty/8c875c85.webp","isRepresentative":false},{"college":"AI대학","department":"데이터사이언스학부","major":"","rank":"조교수","name":"유지현","specialty":"유전자교정, 바이오신약","career":"AI 활용 국가과제수행중(공동)-\nAI기반나노바디표지바이러스유사입자를이용한질환맞춤형유전자교정플랫폼개발","aiCareer":"전임","image":"./assets/faculty/d6b18ed2.webp","isRepresentative":false},{"college":"AI대학","department":"통계학과","major":"","rank":"교수","name":"최용석","specialty":"다변량통계학, 텍스트마이닝, 고차원자료시각화기법","career":"AI 연구 및 모델개발 : NLP 연구, 머신(딥)러닝","aiCareer":"전임","image":"./assets/faculty/5cbbe1a3.webp","isRepresentative":false},{"college":"AI대학","department":"통계학과","major":"","rank":"교수","name":"조영석","specialty":"데이터 생성","career":"데이터마이닝, 텍스트마이닝","aiCareer":"전임","image":"./assets/faculty/f5a801d3.webp","isRepresentative":false},{"college":"AI대학","department":"통계학과","major":"","rank":"교수","name":"선호근","specialty":"생물통계학, 생물정보학","career":"-　","aiCareer":"전임","image":"./assets/faculty/dc3da55f.webp","isRepresentative":false},{"college":"AI대학","department":"통계학과","major":"","rank":"부교수","name":"양호진","specialty":"통계적 학습, 추론, 예측","career":"- 함수 데이터 학습 및 추론 모형 개발 연구\n-의료데이터분석및예측모델연구\n-비유클리드데이터학습및추론모형개발연구","aiCareer":"전임","image":"./assets/faculty/d9c4396b.webp","isRepresentative":false},{"college":"AI대학","department":"통계학과","major":"","rank":"부교수","name":"박소영","specialty":"통계학 기반 포렌식 데이터 과학 및 컴퓨터 비전 기반 딥러닝 알고리즘 개발","career":"- 전이학습 기반 XAI 알고리즘을 활용한 필적 및 문서 이미지 잠재 벡터 추출 기술을 연구하여 Scientific Reports, Statistical Analysis and Data Mining, Science & Justice 등 유수 저널에 최근 5년간 8편의 SCI 논문을 게재함.\n-족적,필적,음성등비정형포렌식데이터의자동정렬및패턴인식을위한딥러닝·랜덤포레스트 기반 확률예측모델을 개발하였으며,이를 바탕으로 실제 법정내 AI활용증거감정에 참여함.","aiCareer":"전임","image":"./assets/faculty/afd13063.webp","isRepresentative":false},{"college":"AI대학","department":"통계학과","major":"","rank":"부교수","name":"이동혁","specialty":"계산통계, 생산성분석, 유전체분석","career":"- 미국 국립 암 연구소 (National Cancer Institute) 생물통계학 연구원","aiCareer":"전임","image":"./assets/faculty/8ef7ff57.webp","isRepresentative":true},{"college":"AI대학","department":"통계학과","major":"","rank":"조교수","name":"이종민","specialty":"Multivariate statistics, AI-relevant non-Euclidean learning","career":"- 고등과학원 AI기초과학센터 박사후연구원","aiCareer":"전임","image":"./assets/faculty/45435150.webp","isRepresentative":false},{"college":"AI대학","department":"통계학과","major":"","rank":"조교수","name":"김민우","specialty":"베이지안 통계, 공간 통계, 자율주행 모델 개발","career":"- 혁신거점 AI 데이터 융합과제 참여,\n-운전변수기반NOx발생데이터분석과제참여,\n-KAUSTSpatio-TemporalStatisticsandDataScienceLab박사후과정","aiCareer":"전임","image":"./assets/faculty/2d005386.webp","isRepresentative":false},{"college":"AI대학","department":"AX융합학부","major":"","rank":"조교수","name":"유철희","specialty":"도시 원격탐사, 인공지능 기반 도시환경 모델링","career":"관련 논문(Comparison between convolutional neural networks and random forest for local climate zone lassification in mega urban areas using Landsat images 외 약 45편)","aiCareer":"전임","image":"","isRepresentative":false}];

diff --git a/index.html b/index.html
@@ -8,7 +8,7 @@
     <link rel="preconnect" href="https://fonts.googleapis.com" />
     <link rel="preconnect" href="https://fonts.gstatic.com" crossorigin />
     <link href="https://fonts.googleapis.com/css2?family=Noto+Sans+KR:wght@400;500;700;800&display=swap" rel="stylesheet" />
-    <link rel="stylesheet" href="./styles.css?v=20260824-4" />
+    <link rel="stylesheet" href="./styles.css?v=20260824-5" />
   </head>
   <body>
     <header class="site-header" aria-label="사이트 헤더">
@@ -69,7 +69,7 @@
       </section>
     </main>
 
-    <script src="./faculty-data.js?v=20260824-4"></script>
-    <script src="./app.js?v=20260824-4"></script>
+    <script src="./faculty-data.js?v=20260824-5"></script>
+    <script src="./app.js?v=20260824-5"></script>
   </body>
 </html>

diff --git a/app.js b/app.js
@@ -9,12 +9,14 @@ const sections = [
 // 부산대 공식 학과·기관 홈페이지 (검색으로 확인된 주소만 등록)
 const DEPARTMENT_LINKS={
   '정보컴퓨터공학부':'https://cse.pusan.ac.kr/',
-  'AI컴퓨터공학부 (인터랙티브컴퓨팅전공)':'https://inter.pusan.ac.kr/',
+  'AI컴퓨터공학부 (인터랙티브컴퓨팅전공)':'https://cse.pusan.ac.kr/',
   '산업공학부':'https://ie.pusan.ac.kr/',
+  '데이터사이언스학부':'https://data.pusan.ac.kr/',
   '통계학과':'https://stat.pusan.ac.kr/'
 };
 const ORG_NODE_LINKS={
   'unit-a':'https://cse.pusan.ac.kr/',
+  'unit-d':'https://data.pusan.ac.kr/',
   'unit-p':'https://ie.pusan.ac.kr/',
   'edu':'https://swedu.pusan.ac.kr/',
   'infra':'https://uitc.pusan.ac.kr/'
